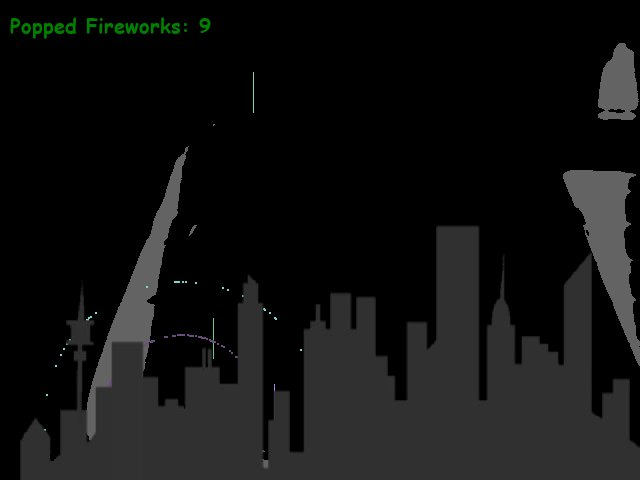
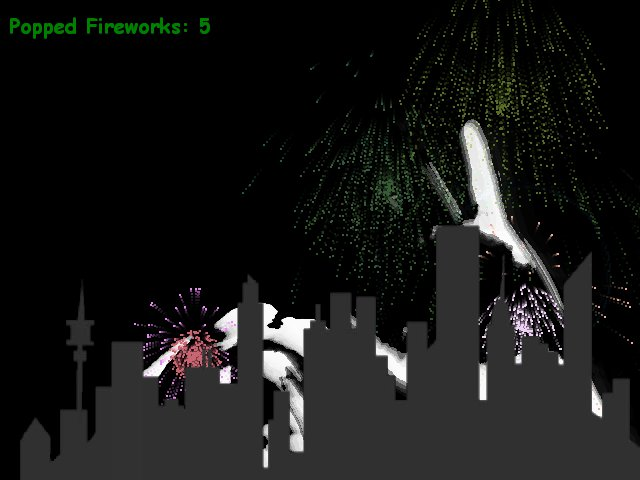
firework

diff --git a/FIREWORK/0528firework.py b/FIREWORK/0528firework.py
@@ -13,6 +13,8 @@ import firetype
 #from firetypeSP import Particle, Sparker
 
 #색 정의
+BLACK_FADED = [0, 0, 0, 1]
+
 BLACK= (0,0,0) #R G B
 RED = (255, 0, 0)
 GREEN = (255,0, 255)
@@ -95,6 +97,10 @@ arc = cv2.Canny(src, 40, 45)
 arc_x = np.where(arc==255)[0]
 arc_y = np.where(arc==255)[1]
 
+# every frame blit a low alpha black surf so that all effects fade out slowly
+blackSurf = pygame.Surface((W, H)).convert_alpha()
+blackSurf.fill(BLACK_FADED)
+
 ################################CAMERA########################
 cap = cv2.VideoCapture(0)
 cap.set(cv2.CAP_PROP_AUTOFOCUS, 0)
@@ -167,17 +173,19 @@ while loop == True:
     temp = np.flipud(temp)
     exists = np.where(temp == 255)
 
-    screen.fill(BLACK)  # 화면을 검은색으로 지운다
+    #screen.fill(BLACK)  # 화면을 검은색으로 지운다
+    screen.blit(blackSurf, (0,0))  # 블랙으로 리셋
+
     
     temp = np.rot90(thresh_img)        
     mask = np.flipud(temp)
     me = pygame.surfarray.make_surface(mask).convert()
 
-    print(mask)
+    #print(mask)
     me.set_alpha(100)
 
     if firetype.p_fw % 10 == 0 and not reward:
-        print(firetype.p_fw)
+        #print(firetype.p_fw)
         fires.append(firetype.Fire_type7(W/2, H/2, screen)) #init <-- x,y,qty
         reward = True
     

diff --git a/FIREWORK/firetype.py b/FIREWORK/firetype.py
@@ -575,7 +575,7 @@ class Fire_type7:
         self.y += self.vy
         
         if self.count > 0 and self.count % 4 == 0:
-            print("make",self.count)
+            #print("make",self.count)
             self.makeSparkle()
         
         return (self.count==51) #boolean ; 카운트 51되면 true
